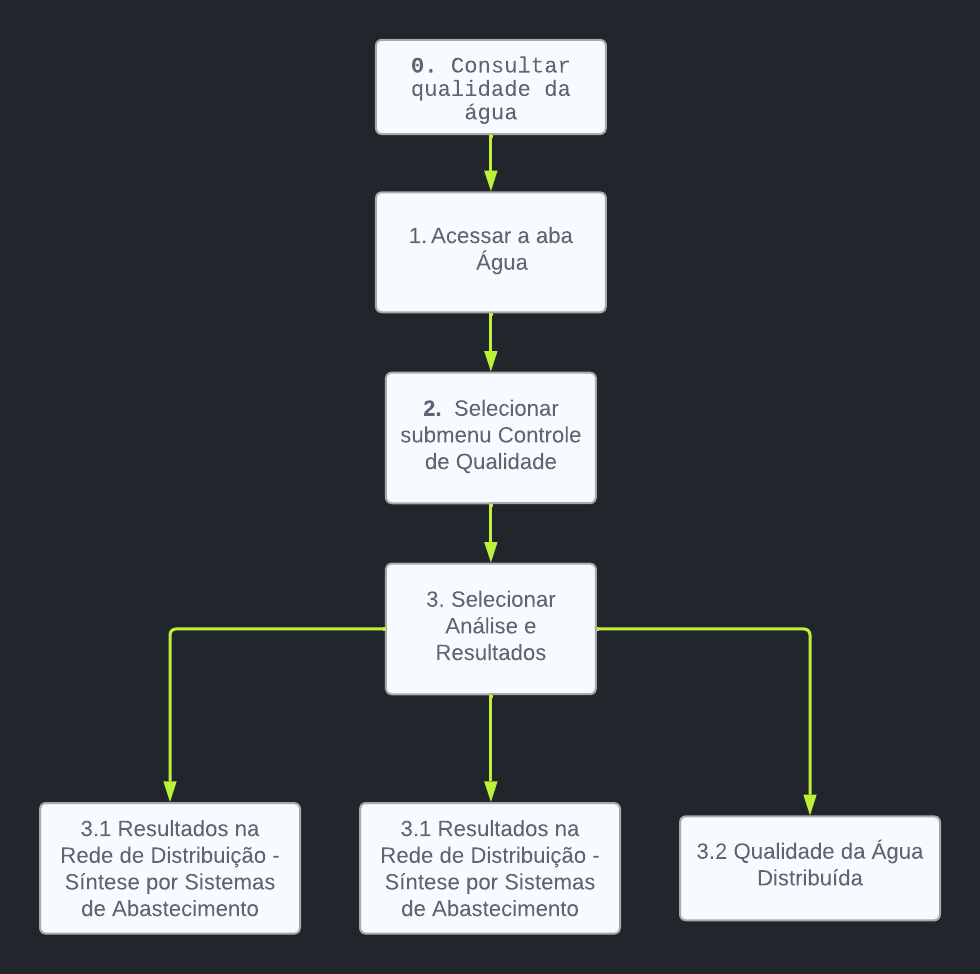
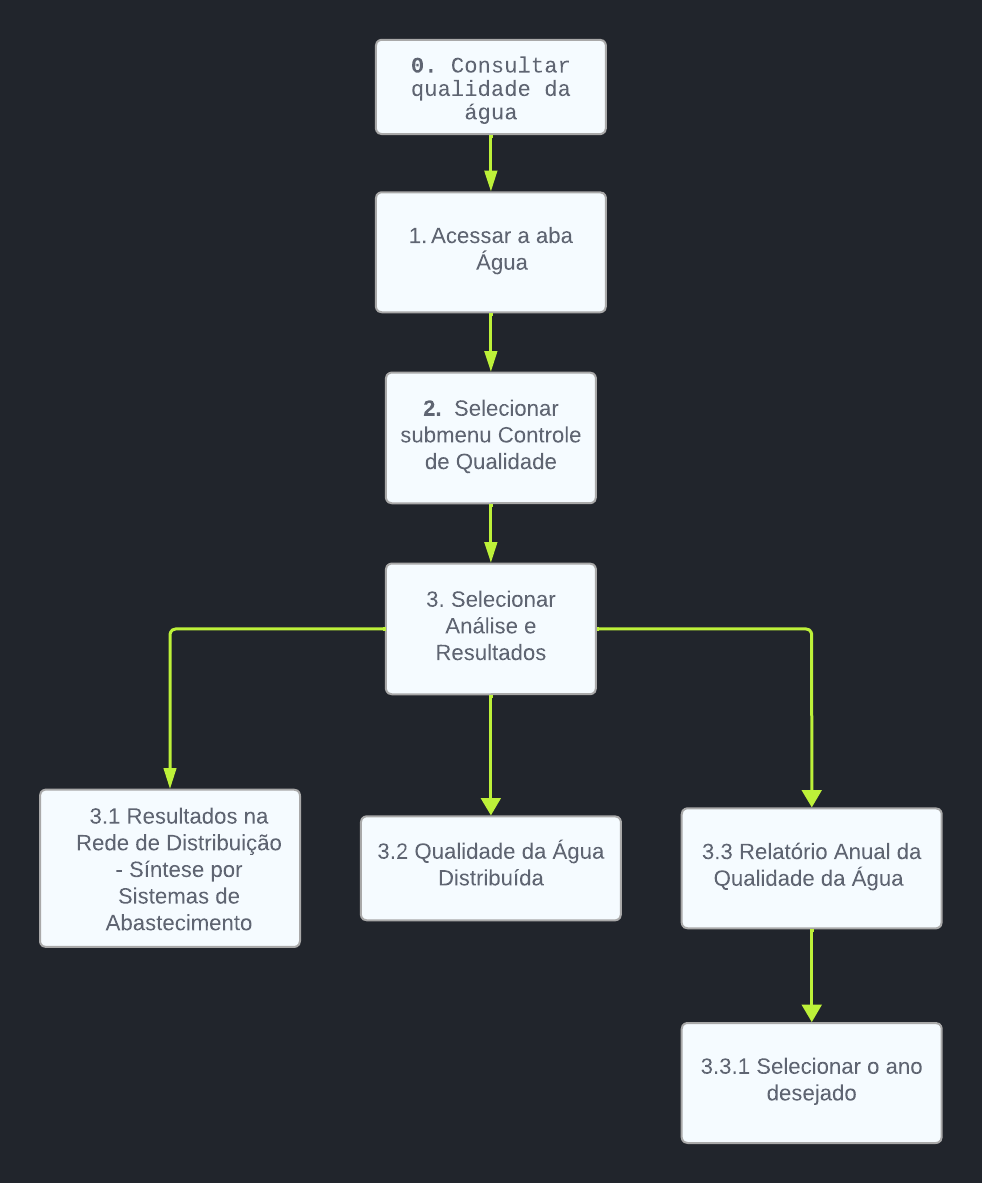
adiciona Qualidade em analise-de-tarefas

Changed region(s): [[0.0306, 0.0308, 0.8265, 0.9856], [0.6735, 0.8316, 0.9796, 0.9856], [0.6735, 0.616, 0.9796, 0.8008]]

diff --git a/docs/analise-de-requisitos/analise-de-tarefas.md b/docs/analise-de-requisitos/analise-de-tarefas.md
@@ -188,7 +188,34 @@
 | 1.2 Faça login | *input: Dados de login.<br>feedback*: o usuário é redirecionada para a página de selecionar a residencia a ser revisada via.|
 | 2. Selecionar a residência desejada | *feedback*: o usuário escolhe a residência a ser revisada.<br>|
 | 2.1 Selecionar a conta a ser revisada  | *plano*: o usuário escolhe qual conta que ele quer revisar.<br>|
-| 2.2 Clique no botão Solicitar Revisão  | *feedback*: o usuário solicita a revisão, onde ela vai ser revisada pela caesb onde alvaliara se é procedente a sua ação.<br>|
+| 2.2 Clique no botão Solicitar Revisão  | *feedback*: o usuário solicita a revisão, onde ela vai ser revisada pela caesb onde alvaliará se é procedente a sua ação.<br>|
+
+
+## Consultar Qualidade da Água  
+<p align="justify">&emsp;&emsp; Nessa tarefa, o usuario ira consultar a qualidade da água em sua região administrativa. No qual ele precisa acessar o site da caesb, acessar o menu "Água", acessar o submenu "Controle de Qualidade", selecionar "Análises e Resultados", por fim clicar em  "Resultados na Rede de Distribuição - Síntese por Sistemas de Abastecimento" ou  "Qualidade da Água Distribuída" ou "Relatório Anual da Qualidade da Água". Caso selecionado "Relatório Anual da Qualidade da Água", clicar no ano desejado. </p>
+
+<figure markdown>
+<font size="3"><b>Figura 5</b> - Diagrama HTA Qualidade.</font>
+
+![Notação diagrama HTA](../../assets/analise_de_tarefas/HTAlight_qualidade.png#only-light){width=500px}
+![Notação diagrama HTA](../../assets/analise_de_tarefas/HTAdark_qualidade.png#only-dark){width=500px}
+
+<font size="3"><p style="text-align: center">Fonte: <a href="https://github.com/mateus9levy" target="_blank">Mateus Levy</a></p></font>
+
+</figure>
+
+<font size="3"><p style="text-align: center"><b>Tabela 2</b> - HTA da Qualidade da Água.</p></font>
+
+|     Objetivos/Operações      | Problemas e recomendações                                                                                                                                                                               |
+| :--------------------------: | ------------------------------------------------------------------------------------------------------------------------------------------------------------------------------------------------------- |
+|  0. Consultar qualidade da água  |                                                                                                                                                                                                         |
+| 1. Acessar a aba Água |*plano*: usuário é deve acessar o submenu Controle de Qualidade.<br>|
+| 2. Selecionar submenu Controle de Qualidade | *feedback*: Abrirá um submenu chamando "Analises e Resultados" |
+| 3. Selecionar Análise e Resultados | *feedback*: o usuário será redirecionado para a página de Analises e Resultados.<br>|
+| 3.1 Resultados na Rede de Distribuição - Síntese por Sistemas de Abastecimento  | *feedback*: o usuário será redirecionado para um pdf contendo uma análise mensal detalhada por sistema de abastecimento.<br>|
+| 3.2 Qualidade da Água Distribuída  | *feedback*: o usuário será redirecionado para um pdf contendo uma análise mensal detalhada por sistema de abastecimento. <br>|
+| 3.3 Relatório Anual da Qualidade da Água | *feedback*: o usuário será redirecionado para uma página contendo os relatórios anuis <br>|
+| 3.3.1 Selecionar o ano desejado| *plano*: o usuário deverá escolher  relatório do ano que deseja <br>|
 
 ## Referências 
 
@@ -210,3 +237,4 @@
 |  1.2   | 15/10/2023 | Adicionando Análise da consulta a contas pagas | Jefferson | Tiago |
 |  1.3   | 15/10/2023 | Adicionando emição da segunda via | Leandro | Oscar |
 |  1.4   | 16/10/2023 | Adicionando Revisão de contas | Rodrigo | Leandro |
+|  1.5   | 16/10/2023 | Adicionando Qualidade da Água | Mateus | Leandro |
